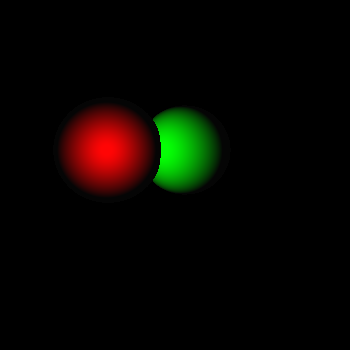
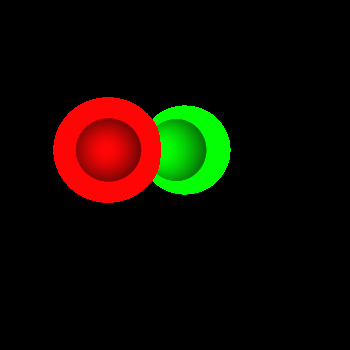
Buggy specular reflection

Changed region(s): [[0.1429, 0.2571, 0.6571, 0.6]]

diff --git a/raytracer.py b/raytracer.py
@@ -8,6 +8,10 @@ import numpy as np
 
 
 class RayTracer(object):
+    def __init__(self):
+        # for specular  reflection
+        self.n_roughness = 7
+
     def set_scene(self, scene):
         self.scene = scene
 
@@ -40,14 +44,24 @@ class RayTracer(object):
         for light in self.light_sources:
             ray_intersect_light = Ray(origin=intersection_pt,
                                       towards=light.pos).normalized()
+            v_i = ray_intersect_light.direction
+            v_n = norm_at_intersect.direction
             """ calculate diffuse reflections off objects at that point """
-            intensity = (norm_at_intersect.direction
-                         .dot(ray_intersect_light.direction))
-            intensity = max(intensity, 0.)
-            colour += intensity * closest_obj.colour
+            intensity_diffuse = v_n.dot(v_i)
+            intensity_diffuse = max(intensity_diffuse, 0.)
+            intensity_diffuse *= closest_obj.coef_diffuse
+            colour += intensity_diffuse * closest_obj.colour
 
             """ calculate specular reflections off objects at that point """
-            # vec_reflection = norm_at_intersect.direction - 
+            # TODO: specular reflection seems buggy
+            v_reflected = v_i - 2 * v_i.dot(v_n) * v_n
+            v_viewer = self.pt_eye - intersection_pt
+            intensity_specular = max(v_reflected.dot(v_viewer), 0.)
+            # print intensity_specular
+            intensity_specular = pow(intensity_specular, self.n_roughness)
+            # print v_reflected.dot(v_viewer)
+            intensity_specular *= closest_obj.coef_specular
+            colour += intensity_specular * closest_obj.colour
 
         """ that + ambient illumination gives colour of object """
         colour += self.light_ambient
@@ -73,7 +87,7 @@ def main():
 
     # 3. Trace a ray to find its intersection with the nearest surface
     # Select eye point and screen plane
-    pt_eye = np.array([0., 0., -1.])
+    rt.pt_eye = np.array([0., 0., -1.])
     # x_0, y_0, x_1, y_1
     plane_screen = [-1., -1., 1., 1.]
     pts_x = np.linspace(plane_screen[0], plane_screen[2], screen.canvas_width)
@@ -88,7 +102,7 @@ def main():
             # determine the ray from the eye through the pixel's centre
 
             # to make extension easier e.g. for supersampling
-            pt_origin = pt_eye
+            pt_origin = rt.pt_eye
 
             ray_eye_to_pixel = Ray(origin=pt_origin,
                                    towards=pt_on_screen)

diff --git a/primitives.py b/primitives.py
@@ -5,6 +5,8 @@ class PhysicalObject(object):
     def __init__(self, position, colour):
         self.pos = np.asarray(position)
         self.colour = np.asarray(colour)
+        self.coef_specular = 1.
+        self.coef_diffuse = 1.
 
     def intersect(self, ray):
         raise NotImplementedError
